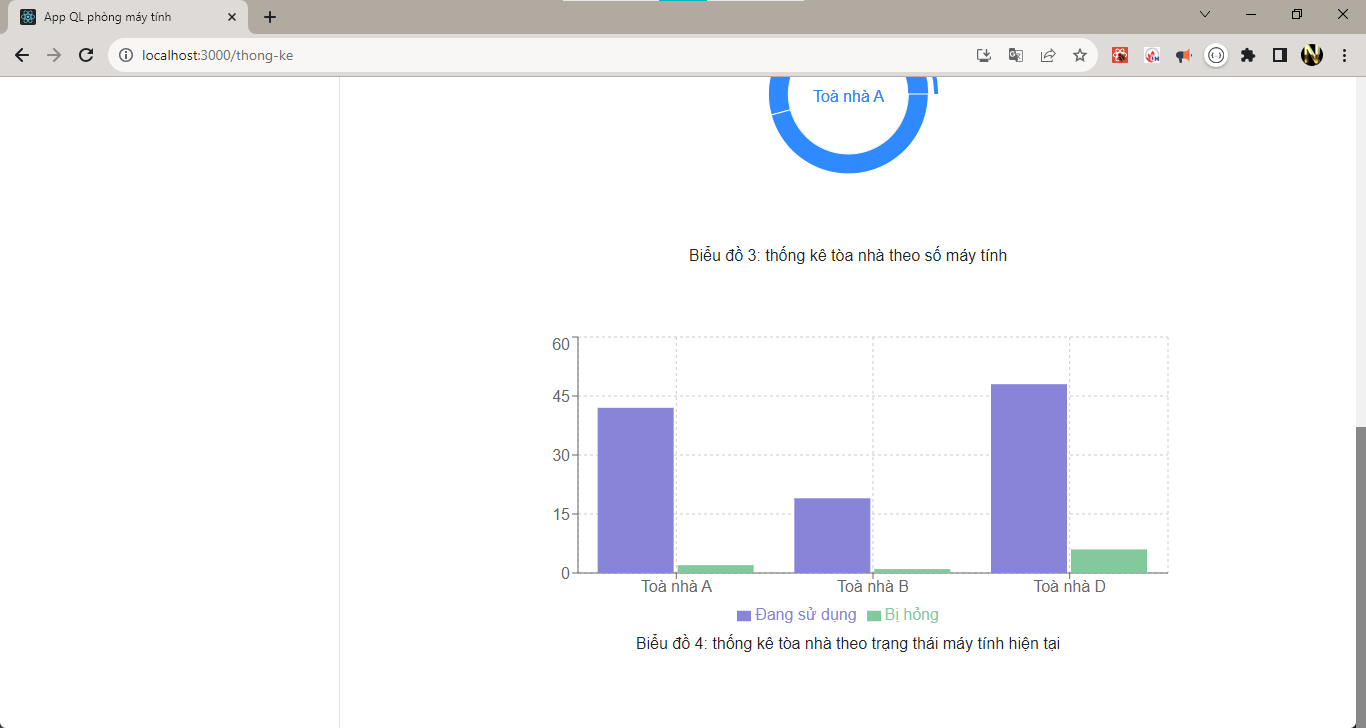
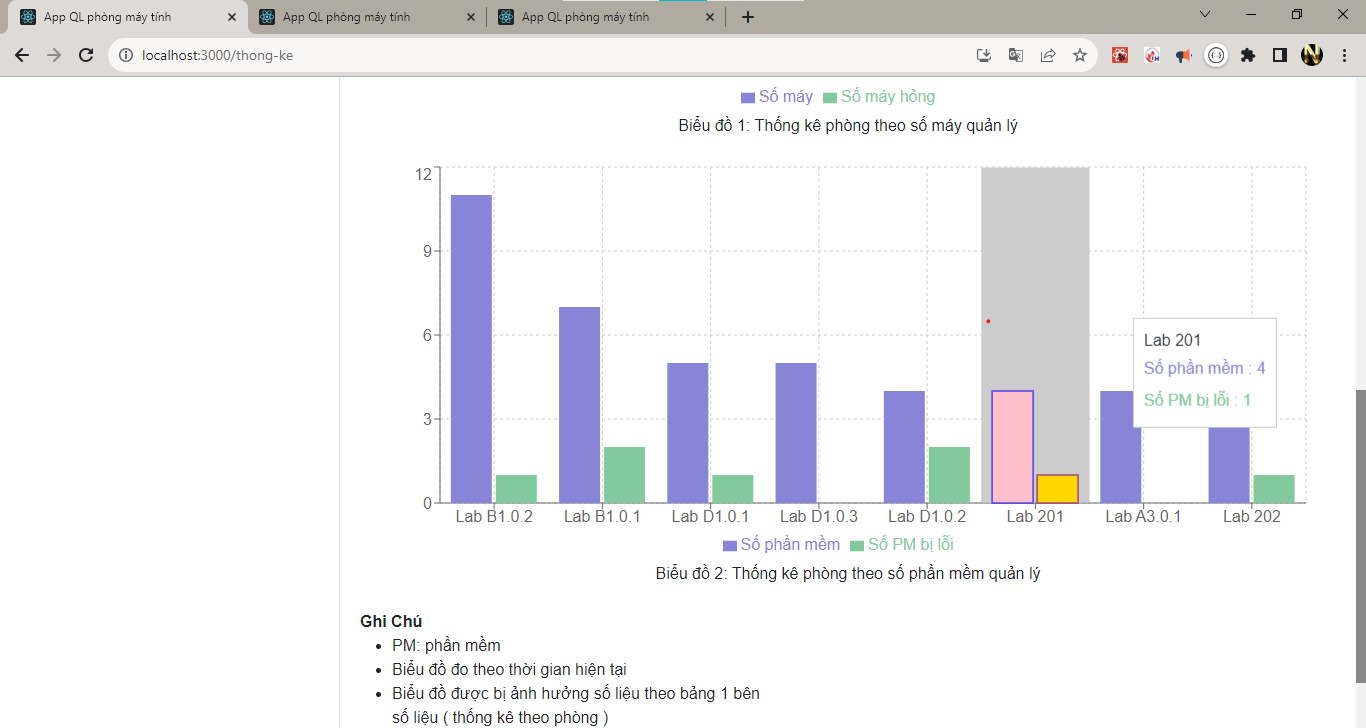
TK Phong máy: finish 2 graph

diff --git a/src/components/layout/ThongKe/ThongKePhongMay/ComponentGraphPhong.jsx b/src/components/layout/ThongKe/ThongKePhongMay/ComponentGraphPhong.jsx
@@ -1,16 +1,159 @@
-import React from "react";
+import React, { PureComponent } from "react";
+import {
+  BarChart,
+  Bar,
+  Rectangle,
+  XAxis,
+  YAxis,
+  CartesianGrid,
+  Tooltip,
+  Legend,
+  ResponsiveContainer,
+} from "recharts";
+
+import { useSelector } from "react-redux";
+
+let data = [
+  { name: "Page A", uv: 4000, pv: 2400, amt: 2400 },
+  { name: "Page B", uv: 3000, pv: 1398, amt: 2210 },
+  { name: "Page C", uv: 2000, pv: 11800, amt: 2290 },
+  { name: "Page D", uv: 2780, pv: 3908, amt: 2000 },
+  { name: "Page E", uv: 1890, pv: 4800, amt: 2181 },
+  { name: "Page F", uv: 2390, pv: 3800, amt: 2500 },
+  { name: "Page G", uv: 3490, pv: 4300, amt: 2100 },
+];
 
 export default function ComponentGraphPhong() {
+  //
+  const { arrTK_DataPhong, sum_PM, arrTK_DataPhong_Search } = useSelector(
+    (state) => state.thongkePhongReducer
+  );
+  //
+
+  // render
+  const renderTK_Phong_MayTinh = () => {
+    if (arrTK_DataPhong.length === 0) {
+      return <></>;
+    }
+    let rowItem = 0;
+    let arrGraph = [];
+    arrTK_DataPhong_Search.forEach((item) => {
+      rowItem++;
+      if (rowItem >= 9) return;
+      let { tenPhong, soMayTinh, soMT_err } = item;
+      arrGraph.push({ tenPhong, "Số máy": soMayTinh, "Số máy hỏng": soMT_err });
+    });
+
+    return (
+      <ResponsiveContainer className="col-md-8 mt-5" height={400}>
+        <BarChart
+          width={500}
+          height={300}
+          data={arrGraph}
+          margin={{
+            top: 5,
+            right: 30,
+            left: 20,
+            bottom: 5,
+          }}
+        >
+          <CartesianGrid strokeDasharray="3 3" />
+          <XAxis dataKey="tenPhong" />
+          <YAxis />
+          <Tooltip />
+          <Legend />
+          <Bar
+            dataKey="Số máy"
+            fill="#8884d8"
+            activeBar={<Rectangle fill="pink" stroke="blue" />}
+          />
+          <Bar
+            dataKey="Số máy hỏng"
+            fill="#82ca9d"
+            activeBar={<Rectangle fill="gold" stroke="purple" />}
+          />
+        </BarChart>
+        <p className="text-center w-100">
+          Biểu đồ 1: Thống kê phòng theo số máy quản lý
+        </p>
+      </ResponsiveContainer>
+    );
+  };
+  //
+  const renderTK_Phong_PhanMem = () => {
+    if (arrTK_DataPhong.length === 0) {
+      return <></>;
+    }
+    let rowItem = 0;
+    let arrGraph = [];
+    arrTK_DataPhong_Search.forEach((item) => {
+      rowItem++;
+      if (rowItem >= 9) return;
+      let { tenPhong, soPhanMem, soPM_err } = item;
+      arrGraph.push({ tenPhong, "Số phần mềm": soPhanMem, "Số PM bị lỗi": soPM_err });
+    });
+
+    return (
+      <ResponsiveContainer className="col-md-8 mt-5" height={400}>
+        <BarChart
+          width={500}
+          height={300}
+          data={arrGraph}
+          margin={{
+            top: 5,
+            right: 30,
+            left: 20,
+            bottom: 5,
+          }}
+        >
+          <CartesianGrid strokeDasharray="3 3" />
+          <XAxis dataKey="tenPhong" />
+          <YAxis />
+          <Tooltip />
+          <Legend />
+          <Bar
+            dataKey="Số phần mềm"
+            fill="#8884d8"
+            activeBar={<Rectangle fill="pink" stroke="blue" />}
+          />
+          <Bar
+            dataKey="Số PM bị lỗi"
+            fill="#82ca9d"
+            activeBar={<Rectangle fill="gold" stroke="purple" />}
+          />
+        </BarChart>
+        <p className="text-center w-100">
+          Biểu đồ 2: Thống kê phòng theo số phần mềm quản lý
+        </p>
+      </ResponsiveContainer>
+    );
+  };
+  //
   return (
     <div className="mb-5">
-      <div className="d-flex justify-content-around flex-wrap">
-        {/* {renderGraph_ToaNha()} */}
-      </div>
-      <div className="d-flex justify-content-around flex-wrap">
-        {/* <GraphTKToaNhaTheoTrangThai_SimpleBarChart
-          data={tk_ToaNha_status_mayTinh}
-        /> */}
+      {/*  */}
+      <>{renderTK_Phong_MayTinh()}</>
+      {/*  */}
+      <>{renderTK_Phong_PhanMem()}</>
+      
+      
+      <div className="col-5 mt-5">
+        <strong>Ghi Chú</strong>
+        <ul>
+          <li>PM: phần mềm</li>
+          <li>Biểu đồ đo theo thời gian hiện tại</li>
+          <li>
+            Biểu đồ được bị ảnh hưởng số liệu theo bảng 1 bên số liệu ( thống kê theo phòng )
+          </li>
+        </ul>
       </div>
     </div>
   );
 }
+
+//
+const sort_soMayTinh = (a, b) => {
+  let valuea = a.soMayTinh;
+  let valueb = b.soMayTinh;
+  return valueb - valuea;
+};

diff --git a/src/components/layout/ThongKe/ThongKePhongMay/ComponentTablePhong.jsx b/src/components/layout/ThongKe/ThongKePhongMay/ComponentTablePhong.jsx
@@ -88,16 +88,16 @@ export default function ComponentTablePhong() {
   };
   //
   const renderNhanXet = () => {
-    let arrNhanXet = [...arrNhanXet_MT, ...arrNhanXet_PM]
+    let arrNhanXet = [...arrNhanXet_MT, ...arrNhanXet_PM];
     return arrNhanXet?.map((item, index) => {
       let { title, name, tile, soLuong_err } = item;
-      let str = `${name} có ${soLuong_err} ${title} bị hỏng, chiếm ${tile}% tổng số ${title}`
+      let str = `${name} có ${soLuong_err} ${title} bị hỏng, chiếm ${tile}% tổng số ${title}`;
       return <li key={index}>{str}</li>;
     });
   };
   //
   return (
-    <div>
+    <>
       <div className="table-responsive-md mt-5 ">
         <strong>Bảng 1: Thống kê theo phòng máy( thời gian hiện tại ) </strong>
         <table className="table table-striped table-hover table-bordered">
@@ -147,9 +147,7 @@ export default function ComponentTablePhong() {
                 Tổng
               </td>
               <td className="text-center fw-bold">{sum_PM} </td>
-              <td className="text-center fw-bold">
-                {sumPM_err} ( {((sumPM_err * 100) / sum_PM).toFixed(2)}% ){" "}
-              </td>
+              <td className="text-center fw-bold">{sumPM_err}</td>
               <td className="text-center fw-bold">{sumMayTinh} (máy)</td>
               <td className="text-center fw-bold">
                 {sumMayTinh_err} ({" "}
@@ -165,10 +163,7 @@ export default function ComponentTablePhong() {
             <ul>
               <li>PM: phần mềm</li>
               <li>Tổng số ứng dụng PM: tổng số phần mềm trong hệ thống có.</li>
-              <li>
-                Tổng số PM bị lỗi A (B%): A - tổng số PM bị lỗi có trong danh
-                sách; B - tị lệ PM lỗi với tổng số PM.
-              </li>
+              <li>Tổng số PM bị lỗi: tổng số PM bị lỗi có trong danh sách.</li>
               <li>Tổng số máy: tổng số máy có trong danh sách trên.</li>
               <li>
                 Tổng số máy bị hỏng A (B%): A - tổng số máy bị hỏng có trong
@@ -182,52 +177,6 @@ export default function ComponentTablePhong() {
           </div>
         </div>
       </div>
-    </div>
+    </>
   );
 }
-
-//
-const TableTKTang = (props) => {
-  let { index, sum, data_table, text_name, name_title } = props.data;
-
-  return (
-    <div key={index} className="table-responsive-md mt-5 ">
-      <strong>Bảng {name_title} </strong>
-      <table className="table table-striped table-hover table-bordered">
-        <thead>
-          <tr>
-            <th>#</th>
-            <th>Tên tầng</th>
-            <th>Số {text_name}</th>
-            <th>Tỉ lệ</th>
-          </tr>
-        </thead>
-        <tbody>
-          {data_table?.map((item, index1) => {
-            let ti_le = (item.value / sum) * 100;
-            return (
-              <tr key={index1}>
-                <td className="text-center">
-                  {index1 < 9 ? `0${index1 + 1}` : index1 + 1}
-                </td>
-                <td>{item.name}</td>
-                <td className="text-center">{item.value}</td>
-                <td className="text-center">{ti_le.toFixed(2)}%</td>
-              </tr>
-            );
-          })}
-          <tr>
-            <td colSpan={2} className="text-center fw-bold">
-              Tổng
-            </td>
-            <td className="text-center fw-bold">
-              {sum} ({text_name})
-            </td>
-            <td className="text-center fw-bold">100%</td>
-          </tr>
-        </tbody>
-        <tfoot />
-      </table>
-    </div>
-  );
-};
